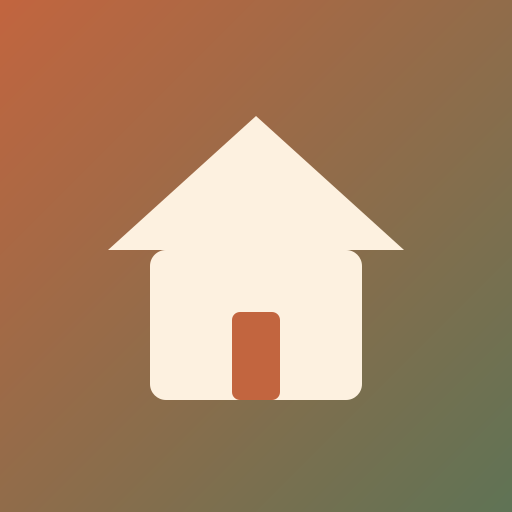
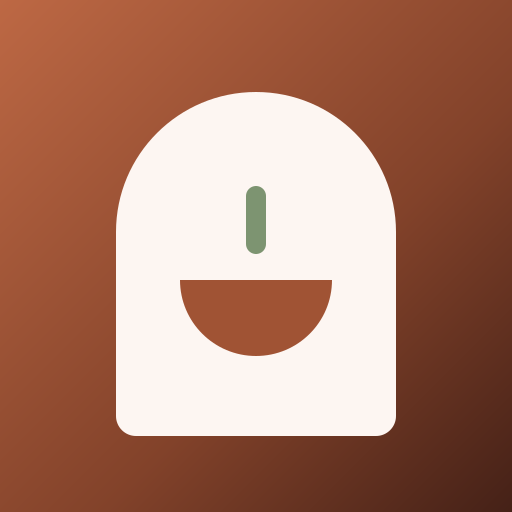
Rebrand ZedHome to Kayachi with a hearth identity
Third Zed store to become an independent brand. Kaya is home across the
Bantu languages, so the identity is a house rather than a warehouse:

- Palette moves from teal to terracotta and clay, with sage as the accent
  (it replaces the shared gold, which every sibling store was using).
- Product cards are arched at the top like a doorway; no hard corners.
- Hero sits under a warm hearth glow instead of a grid.
- New arch-and-bowl logo and app icons, regenerated at 192/512/180.
- Shared ORIZIS intro splash removed; footer credit stays.

Bitter stays - the serif already read as homely.

diff --git a/index.html b/index.html
@@ -3,16 +3,16 @@
 <head>
     <meta charset="UTF-8">
     <meta name="viewport" content="width=device-width, initial-scale=1.0, viewport-fit=cover">
-    <title>ZedHome — Home &amp; Kitchen Delivered, Pay with Mobile Money 🇿🇲</title>
-    <meta name="description" content="ZedHome — Zambia's home &amp; kitchen store: appliances, cookware, décor and everyday essentials at wholesale prices. Pay with MTN MoMo, Airtel Money or Zamtel Kwacha. No credit card. Made for your phone.">
+    <title>Kayachi — Home &amp; Kitchen Delivered, Pay with Mobile Money 🇿🇲</title>
+    <meta name="description" content="Kayachi — Zambia's home &amp; kitchen store: appliances, cookware, décor and everyday essentials at wholesale prices. Pay with MTN MoMo, Airtel Money or Zamtel Kwacha. No credit card. Made for your phone.">
     <link rel="manifest" href="manifest.json">
-    <meta name="theme-color" content="#0d9488">
+    <meta name="theme-color" content="#452117">
     <link rel="icon" type="image/svg+xml" href="icon.svg">
     <link rel="icon" type="image/png" href="icon-192.png">
     <link rel="apple-touch-icon" href="apple-touch-icon.png">
     <meta name="apple-mobile-web-app-capable" content="yes">
     <meta name="apple-mobile-web-app-status-bar-style" content="black-translucent">
-    <meta name="apple-mobile-web-app-title" content="ZedHome">
+    <meta name="apple-mobile-web-app-title" content="Kayachi">
     <script src="https://cdn.tailwindcss.com"></script>
     <script src="https://www.gstatic.com/firebasejs/10.12.2/firebase-app-compat.js"></script>
     <script src="https://www.gstatic.com/firebasejs/10.12.2/firebase-firestore-compat.js"></script>
@@ -24,10 +24,10 @@
                 extend: {
                     colors: {
                         glow: {
-                            50: '#f0fdfa', 100: '#ccfbf1', 200: '#99f6e4', 400: '#2dd4bf',
-                            500: '#14b8a6', 600: '#0d9488', 700: '#0f766e', 900: '#134e4a'
+                            50: '#fdf6f2', 100: '#f8e7dc', 200: '#eecab4', 400: '#d2845d',
+                            500: '#bd6844', 600: '#a05334', 700: '#82422a', 900: '#452117'
                         },
-                        gold: { DEFAULT: '#e3ae4e', soft: '#f4d58d', deep: '#b8862f' },
+                        gold: { DEFAULT: '#7d9471', soft: '#a9bd9e', deep: '#55684c' },
                         zam: { green: '#198a00', red: '#de2010', black: '#000000', orange: '#ef7d00' }
                     },
                     fontFamily: { sans: ['Inter', 'sans-serif'], display: ['"Bitter"', 'serif'] }
@@ -40,50 +40,32 @@
         .no-scrollbar { -ms-overflow-style: none; scrollbar-width: none; }
         .fade-in { animation: fadeIn 0.3s ease-in-out; }
         @keyframes fadeIn { from { opacity: 0; transform: translateY(8px); } to { opacity: 1; transform: translateY(0); } }
-        .spinner { border: 3px solid #ccfbf1; border-top-color: #0d9488; border-radius: 50%; width: 40px; height: 40px; animation: spin 0.8s linear infinite; }
+        .spinner { border: 3px solid #f8e7dc; border-top-color: #bd6844; border-radius: 50%; width: 40px; height: 40px; animation: spin 0.8s linear infinite; }
         @keyframes spin { to { transform: rotate(360deg); } }
         .pulse-ring { animation: pulseRing 1.5s ease-out infinite; }
         @keyframes pulseRing { 0% { box-shadow: 0 0 0 0 rgba(25,138,0,0.4); } 100% { box-shadow: 0 0 0 16px rgba(25,138,0,0); } }
-        /* ZedHome — warm cozy identity */
+        /* ===== KAYACHI — hearth identity =====
+           A home, not a warehouse. Everything is arched and clay-toned;
+           there is not a hard corner anywhere. */
         .font-display { letter-spacing: -0.005em; }
-        #productGrid > * { transition: transform .2s ease, box-shadow .2s ease; }
-        #productGrid > *:hover { transform: translateY(-4px); box-shadow: 0 16px 38px -12px rgba(120,72,45,.38); }
+
+        /* Product cards are arched, like a doorway or an oven mouth. */
+        #productGrid > * { border-radius: 26px 26px 14px 14px; transition: transform .2s ease-out, box-shadow .2s ease-out; }
+        #productGrid > * img { border-radius: 24px 24px 0 0; }
+        #productGrid > *:hover { transform: translateY(-4px); box-shadow: 0 18px 40px -14px rgba(69,33,23,.32) !important; }
+
+        /* A warm hearth glow behind the hero instead of a grid. */
+        #heroSection::before {
+            content: ''; position: absolute; inset: 0; pointer-events: none;
+            background: radial-gradient(120% 90% at 50% 115%, rgba(210,132,93,.28), transparent 62%);
+        }
+
+        @media (prefers-reduced-motion: reduce) {
+            #productGrid > *, .fade-in { transition: none !important; animation: none !important; }
+        }
     </style>
 </head>
 <body class="bg-glow-50 font-sans text-slate-800 min-h-screen flex flex-col">
-
-    <!-- ═══ ORIZIS INTRO · standalone module ═══ -->
-    <div id="orizis-intro">
-      <style>
-        #orizis-intro { position: fixed; inset: 0; z-index: 999999; background: #0d0510; display: flex; flex-direction: column; align-items: center; justify-content: center; cursor: pointer; transition: opacity 0.45s ease; }
-        #orizis-intro.oi-out { opacity: 0; pointer-events: none; }
-        #orizis-intro .oi-mark { font-family: 'Playfair Display', Georgia, serif; font-weight: 900; font-size: clamp(38px, 9vw, 72px); letter-spacing: 0.22em; margin-right: -0.22em; background: linear-gradient(100deg, #134e4a 0%, #ccfbf1 28%, #e3ae4e 50%, #ccfbf1 72%, #134e4a 100%); background-size: 240% auto; -webkit-background-clip: text; background-clip: text; color: transparent; opacity: 0; animation: oiShine 1.9s ease forwards, oiRise 0.9s cubic-bezier(0.22,1,0.36,1) forwards; }
-        #orizis-intro .oi-sub { font-family: 'Inter', Arial, sans-serif; font-weight: 700; font-size: clamp(10px, 2.2vw, 14px); letter-spacing: 0.55em; margin-right: -0.55em; color: #5a8a82; margin-top: 14px; opacity: 0; animation: oiFade 0.7s ease 0.55s forwards; }
-        #orizis-intro .oi-line { width: 0; height: 1px; background: linear-gradient(90deg, transparent, #e3ae4e, transparent); margin-top: 22px; animation: oiLine 1.1s ease 0.35s forwards; }
-        #orizis-intro .oi-load { display: flex; align-items: center; gap: 8px; margin-top: 26px; color: #5a8a82; font-family: 'Inter', Arial, sans-serif; font-weight: 600; font-size: 11px; letter-spacing: 0.2em; opacity: 0; animation: oiFade 0.7s ease 0.9s forwards; }
-        #orizis-intro .oi-spin { width: 14px; height: 14px; border: 2px solid rgba(227,174,78,0.25); border-top-color: #e3ae4e; border-radius: 50%; animation: oiSpin 0.9s linear infinite; }
-        @keyframes oiSpin { to { transform: rotate(360deg); } }
-        @keyframes oiShine { from { background-position: 200% center; } to { background-position: -40% center; } }
-        @keyframes oiRise { from { opacity: 0; transform: translateY(14px) scale(0.97); } to { opacity: 1; transform: none; } }
-        @keyframes oiFade { to { opacity: 1; } }
-        @keyframes oiLine { to { width: min(320px, 60vw); } }
-      </style>
-      <div class="oi-mark">ORIZIS</div>
-      <div class="oi-line"></div>
-      <div class="oi-sub">TECHNOLOGY</div>
-      <div class="oi-load"><div class="oi-spin"></div>LOADING</div>
-      <script>
-        (function () {
-          var el = document.getElementById('orizis-intro');
-          var done = false;
-          function out() { if (done) return; done = true; el.classList.add('oi-out'); setTimeout(function () { el.remove(); }, 500); }
-          el.addEventListener('click', out);
-          el.addEventListener('touchstart', out, { passive: true });
-          setTimeout(out, 1300);
-        })();
-      </script>
-    </div>
-    <!-- ═══ /ORIZIS INTRO ═══ -->
 
     <!-- ======================= TOP BAR ======================= -->
     <div class="bg-glow-900 text-white text-xs sm:text-sm py-1.5 px-4 text-center">
@@ -94,12 +76,14 @@
     <header class="bg-white shadow-sm sticky top-0 z-40">
         <div class="max-w-7xl mx-auto px-4 py-3 flex items-center gap-3 sm:gap-6">
             <a href="#" onclick="goHome(); return false;" class="flex items-center gap-2 shrink-0">
-                <div class="bg-gradient-to-br from-glow-500 to-glow-700 text-white w-10 h-10 rounded-xl flex items-center justify-center text-lg shadow-md">
-                    <i class="fas fa-house-chimney"></i>
-                </div>
+                <svg viewBox="0 0 40 40" class="w-10 h-10 shrink-0" role="img" aria-label="Kayachi">
+                    <path d="M7 35V18a13 13 0 0 1 26 0v17a2 2 0 0 1-2 2H9a2 2 0 0 1-2-2z" fill="#a05334"/>
+                    <path d="M13 22h14a7 7 0 0 1-14 0z" fill="#fdf6f2"/>
+                    <path d="M20 13.5V18" stroke="#a9bd9e" stroke-width="2.6" stroke-linecap="round"/>
+                </svg>
                 <div class="hidden sm:block">
-                    <h1 class="text-xl font-display font-extrabold tracking-tight leading-none">Zed<span class="text-glow-600">Home</span></h1>
-                    <p class="text-[10px] text-slate-400 leading-none mt-0.5">Wholesale home &amp; kitchen. Pay Local.</p>
+                    <h1 class="text-xl font-display font-extrabold tracking-tight leading-none text-glow-900">Kayachi</h1>
+                    <p class="text-[10px] text-glow-600 font-semibold leading-none mt-1 tracking-wide uppercase">Everything for the home</p>
                 </div>
             </a>
 
@@ -212,7 +196,7 @@
     <!-- ======================= HOW IT WORKS ======================= -->
     <section id="how-it-works" class="bg-white border-t border-glow-100">
         <div class="max-w-7xl mx-auto px-4 py-14">
-            <h3 class="text-2xl sm:text-3xl font-display font-extrabold text-center">How ZedHome Works</h3>
+            <h3 class="text-2xl sm:text-3xl font-display font-extrabold text-center">How Kayachi Works</h3>
             <p class="text-center text-slate-500 mt-2 max-w-xl mx-auto">From your phone to your door in 4 simple steps — no credit card, no stress.</p>
             <div class="grid grid-cols-2 lg:grid-cols-4 gap-4 sm:gap-6 mt-10">
                 <div class="text-center p-5 rounded-2xl bg-glow-50">
@@ -247,9 +231,9 @@
     <section id="about" class="bg-glow-50 border-t border-glow-100">
         <div class="max-w-7xl mx-auto px-4 py-14 grid sm:grid-cols-2 gap-10 items-center">
             <div>
-                <h3 class="text-2xl sm:text-3xl font-display font-extrabold">About Zed<span class="text-glow-600">Home</span></h3>
+                <h3 class="text-2xl sm:text-3xl font-display font-extrabold">About Kayachi</h3>
                 <p class="mt-4 text-slate-600 leading-relaxed">A better home shouldn't cost a fortune. But between the middlemen and the shops, the same blender, cookware set or air fryer that leaves the warehouse for a few hundred Kwacha ends up costing double by the time it reaches Zambia.</p>
-                <p class="mt-3 text-slate-600 leading-relaxed"><b>ZedHome fixes that.</b> We connect you directly to the world's biggest home &amp; kitchen catalog, with prices in Kwacha and payment through the mobile money you already use every day. You shop, you approve a prompt on your phone, and we take care of everything else — ordering, shipping and tracking until it reaches your hands.</p>
+                <p class="mt-3 text-slate-600 leading-relaxed"><b>Kayachi fixes that.</b> We connect you directly to the world's biggest home &amp; kitchen catalog, with prices in Kwacha and payment through the mobile money you already use every day. You shop, you approve a prompt on your phone, and we take care of everything else — ordering, shipping and tracking until it reaches your hands.</p>
                 <p class="mt-3 text-slate-600 leading-relaxed">Real quality. Honest prices. Proudly built for the homes of Zambia. 🇿🇲</p>
             </div>
             <div class="grid grid-cols-1 gap-4">
@@ -280,7 +264,7 @@
                 </details>
                 <details class="faq-item">
                     <summary>Do I need a credit card or bank account?</summary>
-                    <p>No! That's the whole point of ZedHome. All you need is a Mobile Money wallet — MTN MoMo, Airtel Money or Zamtel Kwacha — with enough balance for your order.</p>
+                    <p>No! That's the whole point of Kayachi. All you need is a Mobile Money wallet — MTN MoMo, Airtel Money or Zamtel Kwacha — with enough balance for your order.</p>
                 </details>
                 <details class="faq-item">
                     <summary>How long does delivery take?</summary>
@@ -323,8 +307,12 @@
         <div class="max-w-7xl mx-auto px-4 py-10 grid sm:grid-cols-3 gap-8 text-sm">
             <div>
                 <div class="flex items-center gap-2 mb-3">
-                    <div class="bg-gradient-to-br from-glow-500 to-glow-700 text-white w-8 h-8 rounded-lg flex items-center justify-center"><i class="fas fa-house-chimney"></i></div>
-                    <span class="font-display font-extrabold text-white text-lg">Zed<span class="text-glow-400">Home</span></span>
+                    <svg viewBox="0 0 40 40" class="w-8 h-8 shrink-0" aria-hidden="true">
+                        <path d="M7 35V18a13 13 0 0 1 26 0v17a2 2 0 0 1-2 2H9a2 2 0 0 1-2-2z" fill="#f8e7dc"/>
+                        <path d="M13 22h14a7 7 0 0 1-14 0z" fill="#a05334"/>
+                        <path d="M20 13.5V18" stroke="#7d9471" stroke-width="2.6" stroke-linecap="round"/>
+                    </svg>
+                    <span class="font-display font-extrabold text-white text-lg">Kayachi</span>
                 </div>
                 <p class="text-glow-100/60">Zambia's store for imported home &amp; kitchen at wholesale prices — appliances, cookware, décor and everyday essentials. Pay with the mobile money you already have.</p>
             </div>
@@ -332,7 +320,7 @@
                 <h4 class="font-bold text-white mb-3">Quick links</h4>
                 <ul class="space-y-2 text-glow-100/60">
                     <li><a href="#how-it-works" class="hover:text-white transition">How it works</a></li>
-                    <li><a href="#about" class="hover:text-white transition">About ZedHome</a></li>
+                    <li><a href="#about" class="hover:text-white transition">About Kayachi</a></li>
                     <li><a href="#faq" class="hover:text-white transition">FAQ</a></li>
                     <li><a href="#support" class="hover:text-white transition">Customer support</a></li>
                 </ul>
@@ -347,7 +335,7 @@
                 <p class="mt-4 text-glow-100/50 text-xs">Prices shown in Zambian Kwacha (ZMW), incl. service. Exchange rate updated daily.</p>
             </div>
         </div>
-        <div class="border-t border-white/10 text-center py-4 text-xs text-glow-100/50">© 2026 ZedHome Zambia · an ORIZIS TECHNOLOGY brand. All rights reserved.</div>
+        <div class="border-t border-white/10 text-center py-4 text-xs text-glow-100/50">© 2026 Kayachi Zambia · an ORIZIS TECHNOLOGY brand. All rights reserved.</div>
     </footer>
 
     <!-- ======================= CART DRAWER ======================= -->
@@ -512,7 +500,7 @@
     <div id="installBanner" class="hidden fixed bottom-0 left-0 right-0 z-40 bg-glow-900 text-white px-4 py-3 flex items-center gap-3 shadow-2xl">
         <img src="icon-192.png" alt="" class="w-10 h-10 rounded-xl shrink-0">
         <div class="flex-1 min-w-0">
-            <p class="font-bold text-sm leading-tight">Get the ZedHome App 🇿🇲</p>
+            <p class="font-bold text-sm leading-tight">Get the Kayachi App 🇿🇲</p>
             <p class="text-[11px] text-glow-100/80 leading-tight">Faster shopping, right from your home screen</p>
         </div>
         <button onclick="installApp()" class="shrink-0 bg-glow-600 hover:bg-glow-500 text-white text-xs font-extrabold px-4 py-2.5 rounded-full transition">
@@ -530,7 +518,7 @@
                 <ol class="mt-3 space-y-2.5 text-sm">
                     <li><b>1.</b> Tap the <b>Share</b> button <span class="inline-block border border-slate-300 rounded-md px-1.5 py-0.5 text-blue-500"><i class="fas fa-arrow-up-from-bracket"></i></span> at the <b>bottom of Safari</b> (the arrow below points at it)</li>
                     <li><b>2.</b> Scroll down and tap <b>"Add to Home Screen"</b> <span class="inline-block border border-slate-300 rounded-md px-1.5 py-0.5">➕</span></li>
-                    <li><b>3.</b> Tap <b>Add</b> — ZedHome appears on your home screen like an app!</li>
+                    <li><b>3.</b> Tap <b>Add</b> — Kayachi appears on your home screen like an app!</li>
                 </ol>
                 <button onclick="closeInstallGuide()" class="mt-4 w-full bg-glow-100 hover:bg-glow-200 font-bold py-2.5 rounded-xl text-sm">Got it</button>
             </div>
@@ -544,7 +532,7 @@
                 <ol class="mt-3 space-y-2.5 text-sm">
                     <li><b>1.</b> Tap the <b>⋮ menu</b> at the <b>top-right of Chrome</b> (the arrow above points at it)</li>
                     <li><b>2.</b> Tap <b>"Add to Home screen"</b> or <b>"Install app"</b></li>
-                    <li><b>3.</b> Confirm — ZedHome appears on your home screen like an app!</li>
+                    <li><b>3.</b> Confirm — Kayachi appears on your home screen like an app!</li>
                 </ol>
                 <button onclick="closeInstallGuide()" class="mt-4 w-full bg-glow-100 hover:bg-glow-200 font-bold py-2.5 rounded-xl text-sm">Got it</button>
             </div>
@@ -553,23 +541,23 @@
 
     <style>
         html { scroll-behavior: smooth; }
-        .cat-chip { flex-shrink: 0; background: #ccfbf1; border-radius: 9999px; padding: 6px 14px; font-size: 12px; font-weight: 600; color: #115e56; transition: all .2s; }
-        .cat-chip:hover { background: #99f6e4; color: #134e4a; }
-        .cat-chip-deal { flex-shrink: 0; display: inline-flex; align-items: center; gap: 7px; background: linear-gradient(135deg, #f59e0b, #d97706); color: #fff; border-radius: 9999px; padding: 10px 22px; font-size: 14px; font-weight: 800; box-shadow: 0 6px 16px -4px rgba(217,119,6,.55); transition: all .2s; }
-        .cat-chip-deal:hover { transform: translateY(-1px); box-shadow: 0 9px 22px -4px rgba(217,119,6,.65); }
+        .cat-chip { flex-shrink: 0; background: #f8e7dc; border-radius: 9999px; padding: 6px 14px; font-size: 12px; font-weight: 600; color: #82422a; transition: all .2s; }
+        .cat-chip:hover { background: #eecab4; color: #452117; }
+        .cat-chip-deal { flex-shrink: 0; display: inline-flex; align-items: center; gap: 7px; background: linear-gradient(135deg, #7d9471, #55684c); color: #fff; border-radius: 9999px; padding: 10px 22px; font-size: 14px; font-weight: 800; box-shadow: 0 6px 16px -4px rgba(85,104,76,.5); transition: all .2s; }
+        .cat-chip-deal:hover { transform: translateY(-1px); box-shadow: 0 9px 22px -4px rgba(85,104,76,.6); }
         .cat-chip-deal i { animation: flamePulse 1.6s ease-in-out infinite; }
         @keyframes flamePulse { 0%,100% { transform: scale(1); opacity: 1; } 50% { transform: scale(1.15); opacity: .85; } }
         .side-cat { display: flex; align-items: center; gap: 9px; width: 100%; text-align: left; padding: 9px 12px; border-radius: 12px; font-size: 13px; font-weight: 600; color: #475569; transition: all .15s; }
-        .side-cat:hover { background: #ccfbf1; color: #134e4a; }
-        .side-cat i { color: #0d9488; font-size: 13px; }
+        .side-cat:hover { background: #f8e7dc; color: #452117; }
+        .side-cat i { color: #bd6844; font-size: 13px; }
         .side-cat-deal { color: #b45309; font-weight: 800; }
-        .provider-btn.selected { border-color: #0d9488 !important; background: #f0fdfa; }
+        .provider-btn.selected { border-color: #bd6844 !important; background: #fdf6f2; }
         .paymethod-btn { border-color: #e2e8f0; }
-        .paymethod-btn.selected { border-color: #0d9488 !important; background: #f0fdfa; }
-        .faq-item { background: #f0fdfa; border-radius: 16px; padding: 16px 20px; }
+        .paymethod-btn.selected { border-color: #bd6844 !important; background: #fdf6f2; }
+        .faq-item { background: #fdf6f2; border-radius: 16px; padding: 16px 20px; }
         .faq-item summary { font-weight: 700; cursor: pointer; list-style: none; display: flex; justify-content: space-between; align-items: center; }
         .faq-item summary::-webkit-details-marker { display: none; }
-        .faq-item summary::after { content: '+'; font-size: 20px; color: #0d9488; font-weight: 800; }
+        .faq-item summary::after { content: '+'; font-size: 20px; color: #bd6844; font-weight: 800; }
         .faq-item[open] summary::after { content: '−'; }
         .faq-item p { margin-top: 10px; color: #64748b; font-size: 14px; line-height: 1.6; }
         .guide-arrow-down { animation: bounceDown 1s ease-in-out infinite; }
@@ -580,7 +568,7 @@
 
     <script>
     /* ================================================================
-       ZEDHOME CONFIG — edit these values
+       KAYACHI CONFIG — edit these values
        ================================================================ */
     const CONFIG = {
         // Your backend API (the Vercel server.js that proxies AliExpress).
@@ -591,8 +579,8 @@
         MARKUP_PERCENT: 30,               // company profit margin on every purchase
         SERVICE_FEE_PERCENT: 5,           // fee shown at checkout (covers MoMo charges)
         BUDGET_MAX_ZMW: 200,              // price ceiling for the "Home deals under K200" section
-        STORE_ID: "zedhome",                // order records + admin dashboard filter
-        STORE_NAME: "ZedHome",
+        STORE_ID: "kayachi",                // order records + admin dashboard filter
+        STORE_NAME: "Kayachi",
         ORDER_EMAIL: "office@orizisgroup.com",   // every order is emailed here (via FormSubmit)
         FIREBASE: {                        // shared "Zed Zambia" project — orders dashboard
             apiKey: "AIzaSyAqkEfNwKZzofId0XCGcs17sVFh5NYryrM",
@@ -610,7 +598,7 @@
            the checkout stays Mobile-Money-only with no broken buttons. */
         VERIPOINTS_ENABLED: false,        // false = pure Mobile-Money site, no wallet UI at all
         VERIPOINTS_SDK: "",               // URL of the shared veripoints-sdk.js (central origin). Empty ⇒ stays dormant.
-        VERIPOINTS_SITE_ID: "zedhome",    // this product's id in the shared wallet
+        VERIPOINTS_SITE_ID: "kayachi",    // this product's id in the shared wallet
         EARN_PERCENT: 3,                  // loyalty points earned on every successful order (any method)
         REDEEM_RATE: 1,                   // ZMW value of 1 redeemed point (points→Kwacha)
         VERIPOINTS_TOPUP_ENABLED: false   // ⚠ real-money top-up = Bank-of-Zambia e-money → LOCKED until licensed
@@ -668,7 +656,7 @@
        STATE
        ================================================================ */
     let products = [];
-    let cart = JSON.parse(localStorage.getItem('zedhome_cart') || '[]');
+    let cart = JSON.parse(localStorage.getItem('kayachi_cart') || '[]');
     let currentProduct = null;
     let pmQtyCount = 1;
     let selectedProvider = null;
@@ -979,7 +967,7 @@
        CART
        ================================================================ */
     function saveCart() {
-        localStorage.setItem('zedhome_cart', JSON.stringify(cart));
+        localStorage.setItem('kayachi_cart', JSON.stringify(cart));
         renderCart();
     }
 
@@ -1358,7 +1346,7 @@
         cart = [];
         saveCart();
         closeCheckout();
-        showToast('🎉 Thank you for shopping with ZedHome!');
+        showToast('🎉 Thank you for shopping with Kayachi!');
     }
 
     /* ================================================================
@@ -1381,7 +1369,7 @@
 
     function showInstallBanner() {
         if (IS_INSTALLED || !IS_MOBILE) return;
-        const snoozedAt = parseInt(localStorage.getItem('zedhome_install_snooze') || '0');
+        const snoozedAt = parseInt(localStorage.getItem('kayachi_install_snooze') || '0');
         if (Date.now() - snoozedAt < INSTALL_SNOOZE_MS) return;
         $('installBanner').classList.remove('hidden');
         document.body.classList.add('has-install-banner');
@@ -1393,7 +1381,7 @@
     }
 
     function dismissInstall() {
-        localStorage.setItem('zedhome_install_snooze', String(Date.now()));
+        localStorage.setItem('kayachi_install_snooze', String(Date.now()));
         hideInstallBanner();
     }
 
